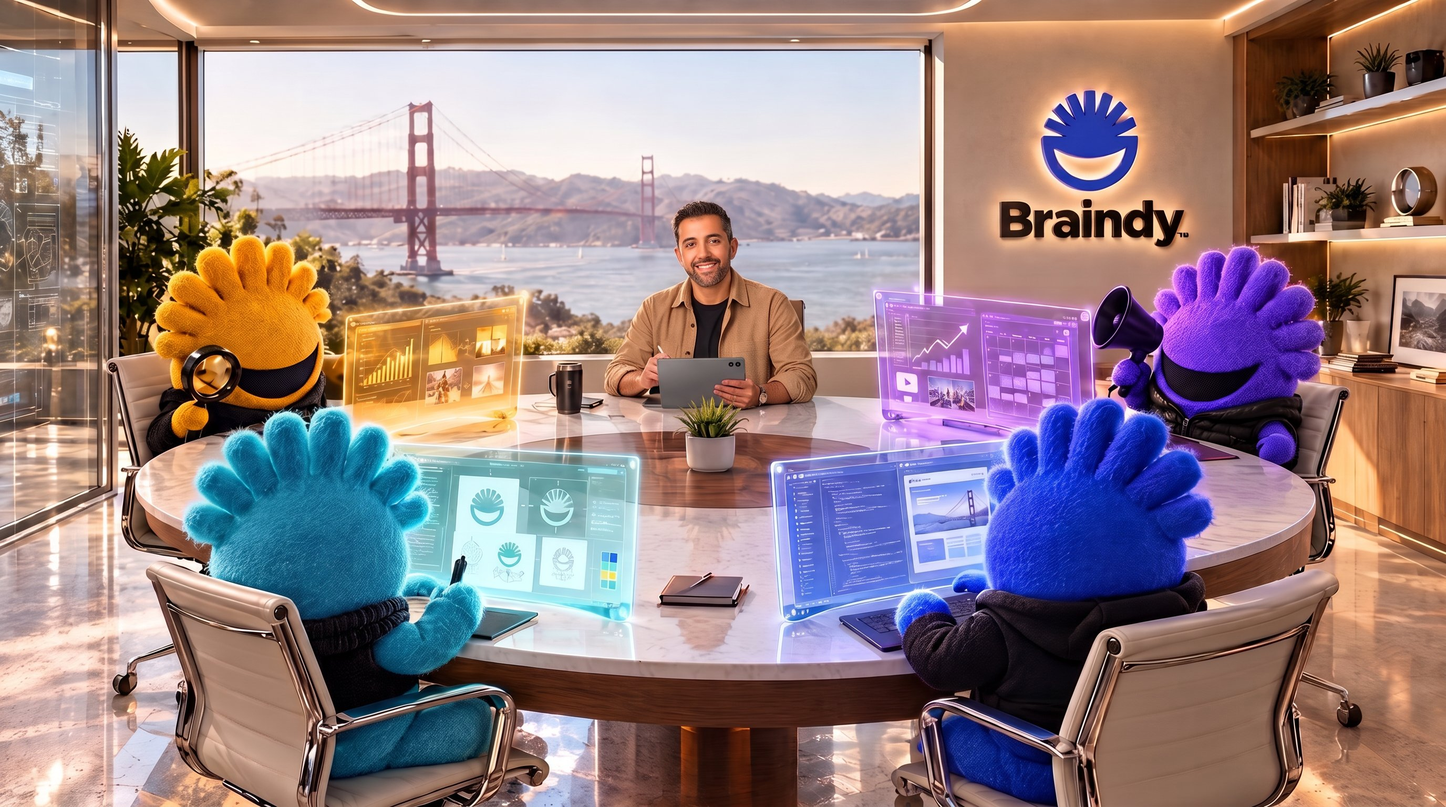
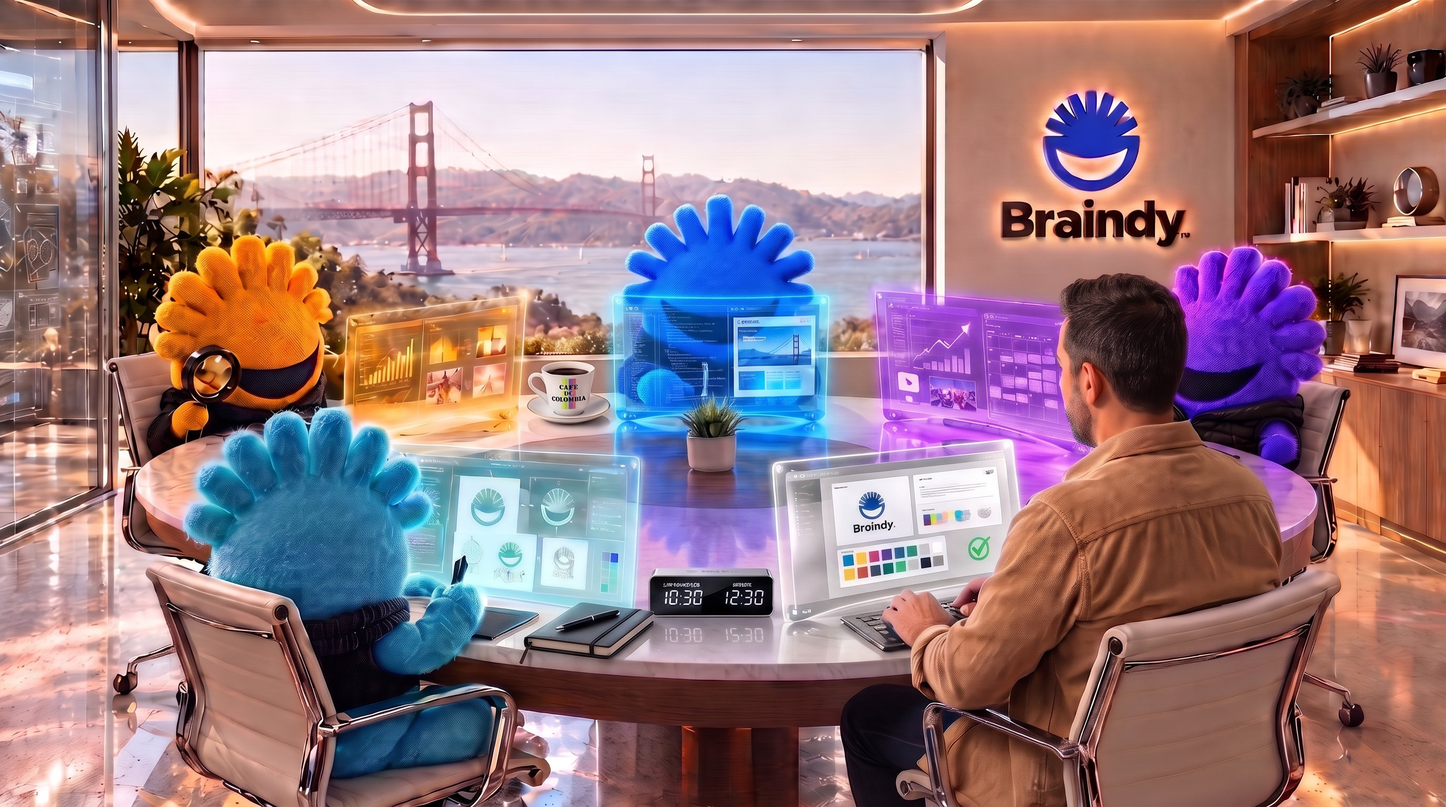
El Estudio: Nicolas from behind at the front seat, Builder at the head, live SF/Bogota table clock, Cafe de Colombia cup

diff --git a/docs/el-estudio/estudio-foto.src.html b/docs/el-estudio/estudio-foto.src.html
@@ -44,9 +44,11 @@ p { margin: 0; max-width: 70ch; }
 .glow { position: absolute; width: 18%; aspect-ratio: 1.6; transform: translate(-50%, -50%); border-radius: 50%; mix-blend-mode: screen; pointer-events: none; transition: opacity .8s; }
 .hot { position: absolute; transform: translate(-50%, -50%); border-radius: 40%; background: transparent; border: 0; cursor: pointer; }
 .hot:hover + .glow, .hot:focus-visible + .glow { opacity: 1 !important; }
-.clock { position: absolute; left: 50%; top: 4%; transform: translateX(-50%); display: flex; gap: 14px; align-items: center; font-family: var(--mono); font-size: clamp(9px, 0.95vw, 13px); color: #1B2340; background: #FFFFFFB3; border: 1px solid #FFFFFFCC; border-radius: 10px; padding: 5px 12px; backdrop-filter: blur(6px); white-space: nowrap; }
-.clock b { font-family: var(--display); font-weight: 900; color: #0B1020; margin-left: 5px; }
-.clock i { width: 1px; height: 12px; background: #1B234044; }
+.scene { container-type: inline-size; }
+.clock { position: absolute; left: 45.4%; top: 71.4%; width: 7.7%; height: 4.6%; display: grid; grid-template-columns: 1fr 1fr; align-items: center; padding: 0 0.3cqw; background: #07090D; border-radius: 0.3cqw; color: #F2F5FF; text-align: center; pointer-events: none; }
+.clock span { display: flex; flex-direction: column; align-items: center; line-height: 1; gap: 0.15cqw; }
+.clock small { font-family: var(--mono); font-size: 0.34cqw; letter-spacing: .04em; color: #AEB6C8; }
+.clock b { font-family: var(--mono); font-weight: 500; font-size: 0.92cqw; letter-spacing: -0.02em; font-variant-numeric: tabular-nums; text-shadow: 0 0 0.4cqw #FFFFFF99; }
 .bubble { position: absolute; transform: translate(-50%, -100%); max-width: 19%; background: #0B1022E0; border: 1px solid #2C3558; border-radius: 12px; padding: 6px 10px; font-size: clamp(9px, 0.8vw, 12px); line-height: 1.3; backdrop-filter: blur(8px); pointer-events: none; transition: border-color .4s; box-shadow: 0 6px 24px #0006; }
 .bubble .who { font-weight: 900; display: flex; align-items: center; gap: 6px; }
 .bubble .who i { width: 7px; height: 7px; border-radius: 50%; }
@@ -81,7 +83,7 @@ p { margin: 0; max-width: 70ch; }
       <span class="tag"><span class="dot"></span>Fase 1 · versión fotográfica con datos de ejemplo</span>
       <span class="label">Braindy · San Francisco, California</span>
       <h1>El <span class="w9">Estudio</span>. Desde Silicon Valley, para nuestros clientes.</h1>
-      <p class="mute">NicoMarca a la cabeza de la mesa; sus cuatro Brains trabajan alrededor, cada uno en su puesto. Detrás, el Golden Gate. Toca a un Brain para ver su cola.</p>
+      <p class="mute">NicoMarca trabaja en la mesa redonda con sus cuatro Brains, cada uno en su puesto. Sobre la mesa, la hora de San Francisco y de Bogotá. Detrás, el Golden Gate. Toca a un Brain para ver su cola.</p>
     </div>
     <button class="btn" id="fs" type="button">Pantalla completa para grabar</button>
   </header>
@@ -89,13 +91,13 @@ p { margin: 0; max-width: 70ch; }
   <div class="scene-scroll" id="scene-scroll">
     <div class="scene" id="scene">
       <div class="cam" id="cam">
-        <img src="__PHOTO__" alt="El estudio de Braindy en San Francisco: NicoMarca en la cabecera de una mesa redonda con los cuatro Brains trabajando en pantallas de vidrio, el Golden Gate detrás y el letrero 3D de Braindy en la pared">
+        <img src="__PHOTO__" alt="El estudio de Braindy en San Francisco: NicoMarca de espaldas en una mesa redonda con los cuatro Brains trabajando en pantallas de vidrio, un reloj con la hora de San Francisco y Bogotá y una taza de Café de Colombia, el Golden Gate detrás y el letrero 3D de Braindy en la pared">
         <div class="sun"></div>
         <svg id="svg" viewBox="0 0 2000 1116" aria-hidden="true"></svg>
         <div id="spots"></div>
+        <div class="clock" aria-label="Reloj de la mesa: hora en San Francisco y Bogotá"><span><small>SAN FRANCISCO</small><b id="t-sf">--:--</b></span><span><small>BOGOTÁ</small><b id="t-bog">--:--</b></span></div>
       </div>
-      <div class="clock" aria-label="Hora en San Francisco y Bogotá"><span>SAN FRANCISCO<b id="t-sf">--:--</b></span><i></i><span>BOGOTÁ<b id="t-bog">--:--</b></span></div>
-      <div id="bubbles"></div>
+            <div id="bubbles"></div>
     </div>
   </div>
 
@@ -134,11 +136,11 @@ p { margin: 0; max-width: 70ch; }
 
   // Positions in the photo (viewBox 2000 x 1131). screen = where the glass monitor sits; hot = the character; bub = bubble anchor.
   const B = {
-    nico: { name: 'NicoMarca', role: 'Dirige y firma', c: '#FFFFFF', screen: [970, 525], hot: [975, 420, 260, 300], bub: [975, 272] },
+    nico: { name: 'NicoMarca', role: 'Dirige y firma', c: '#FFFFFF', screen: [1240, 745], hot: [1540, 800, 440, 600], bub: [1790, 970] },
     res:  { name: 'Researcher', role: 'Investiga', c: '#F5B301', screen: [600, 500], hot: [330, 460, 280, 300], bub: [330, 320] },
-    mkt:  { name: 'Marketer', role: 'Comunica', c: '#8B5CF6', screen: [1360, 495], hot: [1700, 470, 300, 300], bub: [1805, 650] },
+    mkt:  { name: 'Marketer', role: 'Comunica', c: '#8B5CF6', screen: [1340, 500], hot: [1720, 470, 260, 300], bub: [1815, 335] },
     cre:  { name: 'Creator', role: 'Crea', c: '#06B6D4', screen: [715, 740], hot: [430, 800, 360, 420], bub: [205, 930] },
-    bui:  { name: 'Builder', role: 'Construye', c: '#2A7FFF', screen: [1225, 750], hot: [1520, 790, 380, 420], bub: [1800, 960] },
+    bui:  { name: 'Builder', role: 'Construye', c: '#2A7FFF', screen: [995, 490], hot: [995, 400, 280, 300], bub: [995, 262] },
   };
   const pct = ([x, y]) => [x / 20, y / 11.16];
 

diff --git a/docs/el-estudio/README.md b/docs/el-estudio/README.md
@@ -2,7 +2,7 @@
 
 Showroom of NicoMarca and his four Brains working at a round table in the Braindy studio in San Francisco.
 
-- `studio-sf.jpg`: the photographic scene (generated with Higgsfield from `Drive/Braindy/Marca/braindy-background-SF-big.jpg`, the 3D logo mockup, the Brain 3D renders and Nicolas's photo; face and Samsung tablet fixed with masked inpainting).
+- `studio-sf.jpg`: the photographic scene (generated with Higgsfield from `Drive/Braindy/Marca/braindy-background-SF-big.jpg`, the 3D logo mockup, the Brain 3D renders and Nicolas's photo; face and Samsung tablet fixed with masked inpainting). Current scene: Nicolas seen from behind at the front-right seat with his own white screen (his face is not shown on purpose), Builder at the head with its blue screen, a dual-clock on the table (live SF and Bogotá times are drawn over it in HTML) and a Café de Colombia cup.
 - `estudio-foto.src.html`: the live layer over the photo. Build: replace `__PHOTO__` with the photo as a data URI.
 - `estudio.src.html` + `build.cjs`: the earlier illustrated version.
 - `plan.html`: the plan and phases.
